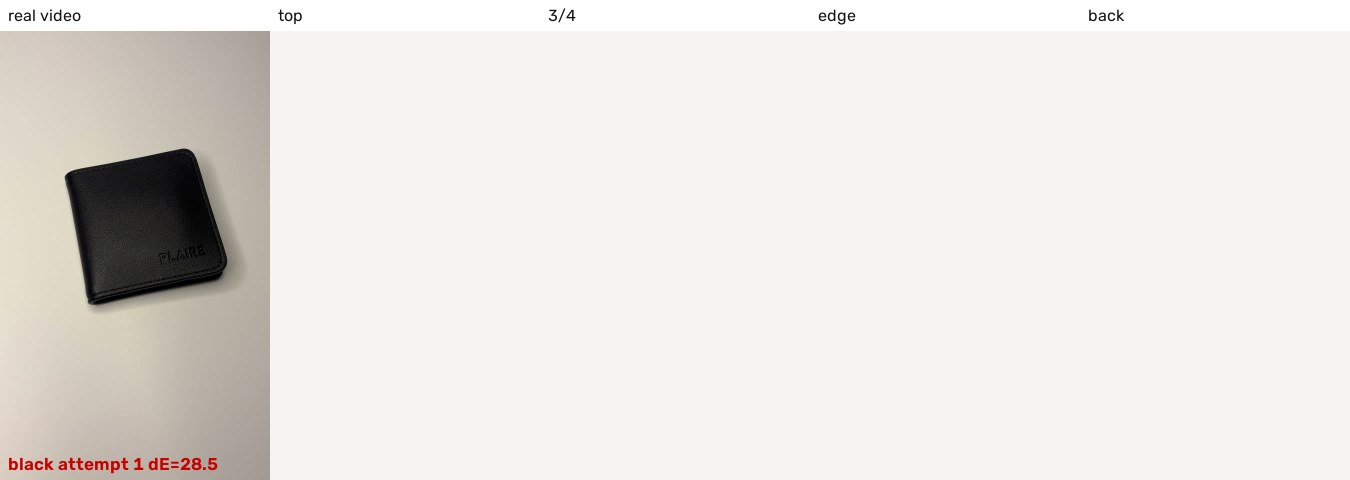
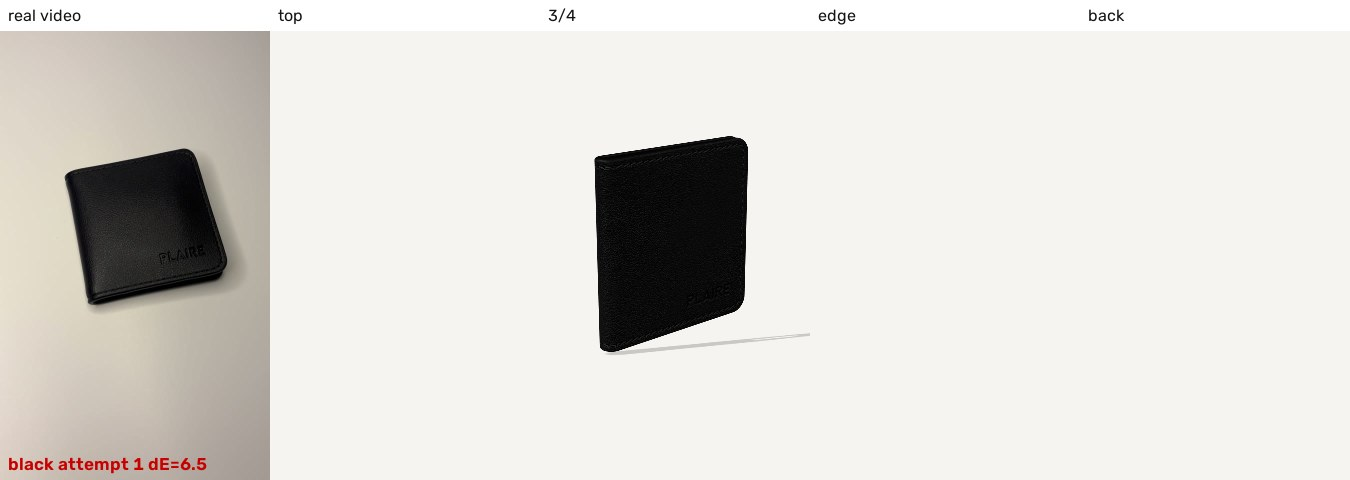
3D проверка 2026-11-28 14:24 (run 46154172767)

Changed region(s): [[0.4356, 0.2812, 0.56, 0.75], [0.5289, 0.6875, 0.5911, 0.7188], [0.1244, 0.9375, 0.1556, 1.0]]

diff --git a/3d/report.md b/3d/report.md
@@ -7,10 +7,10 @@
 - материалы: Leather (цвет [1.0, 1.0, 1.0, 1.0], roughness 0.58, metal 0.0, текстура да, normal да); Edge paint (цвет [0.01, 0.01, 0.012, 1.0], roughness 0.42, metal 0.0, текстура нет, normal нет); Lining (цвет [0.009, 0.009, 0.01, 1.0], roughness 0.8, metal 0.0, текстура нет, normal нет); Magnet (цвет [0.61, 0.61, 0.644, 1.0], roughness 0.32, metal 1.0, текстура нет, normal нет)
 - текстур: 2, анимаций: 0, узлы клапана: нет
 - **можно показать открытым: нет** (нужны анимация или отдельный узел клапана)
-- попытка 1: материал {'roughness': None, 'tint': 1.0}; ΔE2000 = 28.5; Claude: совпадает = False; 3D-рендеры отсутствуют: плитки top, 3/4, edge, back пустые, сравнивать нечего; Реальный образец: чёрный матовый кошелёк с тиснением PLAIRE в правом нижнем углу, мелкая кожная фактура; Цвет, глянец, толщину и тиснение модели проверить невозможно
-- попытка 2: материал {'roughness': 0.7, 'tint': 0.8}; ΔE2000 = 28.5; Claude: совпадает = False; 3D-рендеры отсутствуют: плитки top, 3/4, edge и back пустые, сравнивать нечего; Виден только реальный кадр: чёрный кошелёк с матовой кожей и тиснением PLAIRE в правом нижнем углу; Подпись dE=28.5 указывает на сильное расхождение цвета в предыдущей попытке
-- попытка 3: материал {'roughness': 0.7, 'tint': 0.64}; ΔE2000 = 28.5; Claude: совпадает = False; 3D-рендеры отсутствуют: плитки top, 3/4, edge, back пустые, сравнивать нечего; Реальный объект: чёрный матовый кошелёк с тиснением PLAIRE в правом нижнем углу; Цвет, текстура, блеск, толщина и тиснение не проверены
-- ❌ после 3 попыток не совпадает — 3D для цвета black выключено
+- попытка 1: материал {'roughness': None, 'tint': 1.0}; ΔE2000 = 6.5; Claude: совпадает = False; Рендер темнее реального: чёрный почти без градаций, детали теряются; Текстура у рендера зернистая, матовая ткань; у реального образца гладкая эко-кожа; Глянец слабее: у реального заметны мягкие блики, у рендера их почти нет
+- попытка 2: материал {'roughness': 0.7, 'tint': 1.25}; ΔE2000 = 28.5; Claude: совпадает = False; Рендеры 3/4 и back пустые, сравнить нельзя; Текстура на рендере зернистая и грубая, у реального кошелька кожа гладкая; Глянец у реального образца выше, на рендере поверхность матовая
+- попытка 3: ❌ рендер пустой (модель не отрисовалась) — это ошибка рендера, не модели
+- ⚠ проверку цвета black повторить после исправления рендера (3D пока не выключаю)
 
 ## plaire-case-cognac-brown.glb
 
@@ -19,9 +19,7 @@
 - материалы: Leather (цвет [1.0, 1.0, 1.0, 1.0], roughness 0.62, metal 0.0, текстура да, normal да); Edge paint (цвет [0.503, 0.107, 0.021, 1.0], roughness 0.42, metal 0.0, текстура нет, normal нет); Lining (цвет [0.376, 0.084, 0.019, 1.0], roughness 0.8, metal 0.0, текстура нет, normal нет); Magnet (цвет [0.61, 0.61, 0.644, 1.0], roughness 0.32, metal 1.0, текстура нет, normal нет)
 - текстур: 2, анимаций: 0, узлы клапана: нет
 - **можно показать открытым: нет** (нужны анимация или отдельный узел клапана)
-- попытка 1: материал {'roughness': None, 'tint': 1.0}; ΔE2000 = 24.5; Claude: совпадает = False; 3D-рендеры отсутствуют: плитки 2-5 (top, 3/4, edge, back) пустые, виден только бежевый фон; Сравнить цвет, текстуру кожи, глянец, толщину и тиснение PLAIRE невозможно; На реальном фото: коньячно-коричневый кошелёк, матовая гладкая эко-кожа, контрастная строчка по краю, тиснение PLAIRE тон в тон в правом нижнем углу
-- попытка 2: материал {'roughness': 0.7, 'tint': 0.8}; ΔE2000 = 24.5; Claude: совпадает = False; 3D-рендеры отсутствуют: плитки top, 3/4, edge, back пустые; Сравнить цвет, текстуру кожи, глянец, толщину и тиснение PLAIRE невозможно; На реальном фото коньячный коричневый кошелёк с тиснением PLAIRE и контрастной строчкой по краю
-- попытка 3: материал {'roughness': 0.7, 'tint': 0.64}; ΔE2000 = 24.5; Claude: совпадает = False; 3D-рендеры отсутствуют: плитки top, 3/4, edge и back пустые, сравнивать не с чем; Видна только реальная фотография: коричневый (коньячный) кошелёк с тиснением PLAIRE и контрастной строчкой; Цвет, текстура, блеск, толщина и тиснение 3D-модели не проверены
-- ❌ после 3 попыток не совпадает — 3D для цвета cognac выключено
+- попытка 1: ❌ рендер пустой (модель не отрисовалась) — это ошибка рендера, не модели
+- ⚠ проверку цвета cognac повторить после исправления рендера (3D пока не выключаю)
 
-Claude: 6 запросов ≈ $0.034
+Claude: 2 запросов ≈ $0.012
